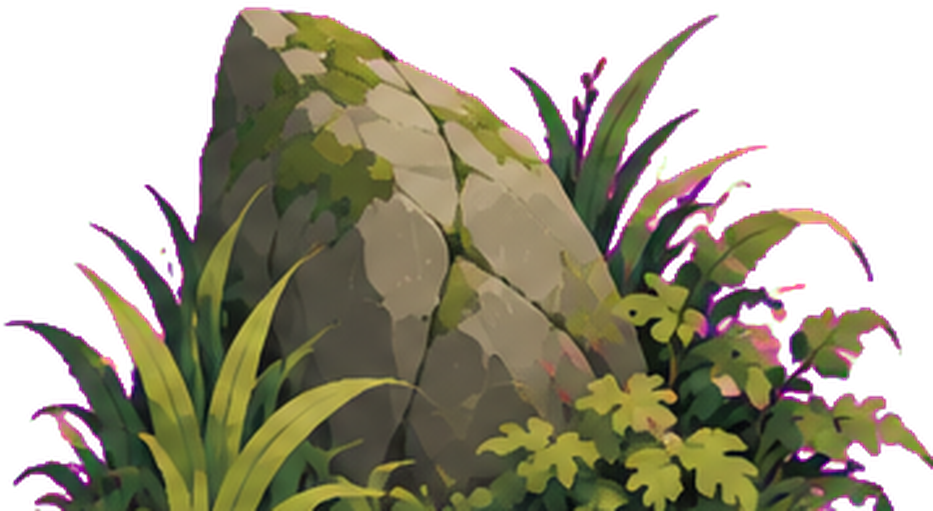
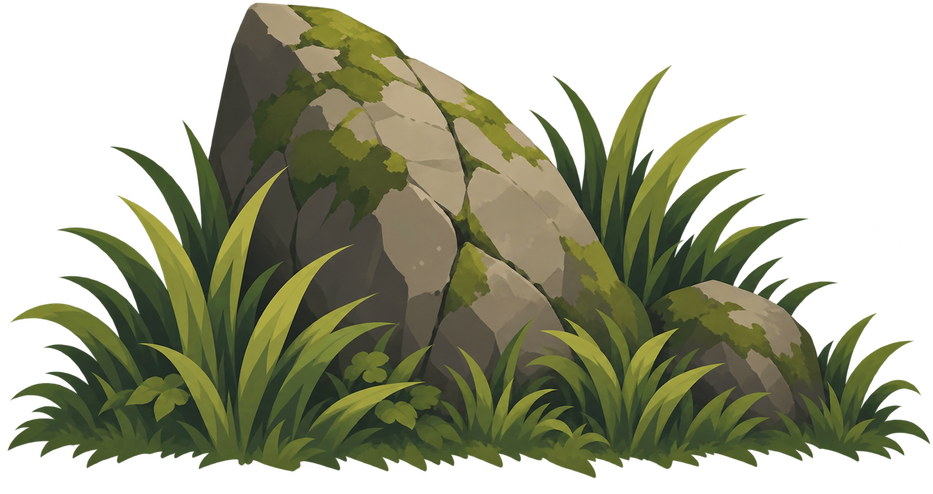
Add files via upload

diff --git a/sidescroll.js b/sidescroll.js
@@ -907,18 +907,18 @@
     tree06: [992, 1318],
     tree07: [992, 1318],
     tree08: [992, 1318],
-    ground01: [937, 603],
-    ground02: [924, 485],
-    ground03: [930, 602],
-    ground04: [931, 514],
-    ground05: [926, 531],
-    ground06: [922, 483],
-    ground07: [931, 418],
-    ground08: [928, 442],
-    ground09: [933, 511],
-    ground10: [940, 484],
-    ground11: [937, 361],
-    ground12: [934, 480],
+    ground01: [937, 493],
+    ground02: [923, 514],
+    ground03: [930, 514],
+    ground04: [914, 512],
+    ground05: [926, 514],
+    ground06: [916, 496],
+    ground07: [931, 529],
+    ground08: [928, 522],
+    ground09: [933, 494],
+    ground10: [940, 526],
+    ground11: [937, 515],
+    ground12: [934, 536],
   };
   Object.entries(assetDimensions).forEach(([key, size]) => {
     assetAspect[key] = size[0] / size[1];
@@ -926,7 +926,7 @@
       textures[key] = textures.treeAtlas;
     } else {
       textures[key] = createImageTexture(
-        `sidescroll-${key.replace('ground', 'ground-')}.png?v=0.2.79`,
+        `sidescroll-${key.replace('ground', 'ground-')}.png?v=0.2.86`,
         key,
         null,
         size[0] / size[1]
@@ -2287,7 +2287,7 @@
   }
 
   function inventoryThumbMarkup(itemDef) {
-    if (itemDef?.image) return `<span class="sidescroll-inventory-thumb"><img src="${itemDef.image}?v=0.2.85" alt=""></span>`;
+    if (itemDef?.image) return `<span class="sidescroll-inventory-thumb"><img src="${itemDef.image}?v=0.2.86" alt=""></span>`;
     if (itemDef?.asset === 'forest-key') return '<span class="sidescroll-inventory-thumb sidescroll-inventory-key-thumb" aria-hidden="true"><i></i></span>';
     return '<span class="sidescroll-inventory-thumb" aria-hidden="true">◇</span>';
   }
@@ -5069,7 +5069,7 @@
           ? `sidescroll-tree-${name.slice(-2)}.png`
           : (name.startsWith('ground') ? `sidescroll-ground-${name.slice(-2)}.png` : null));
         if (file) {
-          btn.innerHTML = `<span class="sidescroll-asset-thumb"><img src="${file}?v=0.2.85" alt="" loading="eager"></span><small>${info.label}</small>`;
+          btn.innerHTML = `<span class="sidescroll-asset-thumb"><img src="${file}?v=0.2.86" alt="" loading="eager"></span><small>${info.label}</small>`;
         } else if (name === 'crate') {
           btn.innerHTML = `<span class="sidescroll-crate-thumb" aria-hidden="true"><i></i></span><small>${info.label}</small>`;
         } else {

diff --git a/puzzle-groups.js b/puzzle-groups.js
@@ -3,17 +3,17 @@ window.SideScrollPuzzleConfig = {
   assetPacks: {
     "woodland-puzzle-atlas-v1": {
       assets: [
-        { name: "puzzle-log-a", url: "puzzle-log-a.png?v=0.2.85", aspect: 1.345895 },
-        { name: "puzzle-log-b", url: "puzzle-log-b.png?v=0.2.85", aspect: 1.106195 },
-        { name: "puzzle-log-c", url: "puzzle-log-c.png?v=0.2.85", aspect: 1.345895 },
-        { name: "puzzle-log-d", url: "puzzle-log-d.png?v=0.2.85", aspect: 1.106195 },
-        { name: "fallen-tree", url: "fallen-tree.png?v=0.2.85", aspect: 2.364393 },
+        { name: "puzzle-log-a", url: "puzzle-log-a.png?v=0.2.86", aspect: 1.345895 },
+        { name: "puzzle-log-b", url: "puzzle-log-b.png?v=0.2.86", aspect: 1.106195 },
+        { name: "puzzle-log-c", url: "puzzle-log-c.png?v=0.2.86", aspect: 1.345895 },
+        { name: "puzzle-log-d", url: "puzzle-log-d.png?v=0.2.86", aspect: 1.106195 },
+        { name: "fallen-tree", url: "fallen-tree.png?v=0.2.86", aspect: 2.364393 },
         { name: "tree-stump", url: "tree-stump.png?v=0.2.61", aspect: 2.4223 },
         { name: "broken-branch", url: "broken-branch.png?v=0.2.61", aspect: 2.7182 },
-        { name: "stone-wall", url: "stone-wall.png?v=0.2.85", aspect: 1.895735 },
-        { name: "stone-piece-a", url: "stone-piece-a.png?v=0.2.85", aspect: 1.094391 },
-        { name: "stone-piece-b", url: "stone-piece-b.png?v=0.2.85", aspect: 0.992500 },
-        { name: "stone-piece-c", url: "stone-piece-c.png?v=0.2.85", aspect: 1.062417 }
+        { name: "stone-wall", url: "stone-wall.png?v=0.2.86", aspect: 1.895735 },
+        { name: "stone-piece-a", url: "stone-piece-a.png?v=0.2.86", aspect: 1.094391 },
+        { name: "stone-piece-b", url: "stone-piece-b.png?v=0.2.86", aspect: 0.992500 },
+        { name: "stone-piece-c", url: "stone-piece-c.png?v=0.2.86", aspect: 1.062417 }
       ]
     }
   },

diff --git a/sw.js b/sw.js
@@ -1,4 +1,4 @@
-const CACHE = "sidescroll-v0.2.85";
+const CACHE = "sidescroll-v0.2.86";
 const APP_SHELL = [
   "./",
   "./index.html",
@@ -16,7 +16,6 @@ const APP_SHELL = [
   "./baked-game-design.js",
   "./puzzle-groups.js",
   "./walk-lab.js",
-  "./sidescroll-dressing-atlas.png",
   "./sidescroll-tree-atlas.png",
   "./sidescroll-tree-01.png",
   "./sidescroll-tree-02.png",

diff --git a/README.md b/README.md
@@ -1,12 +1,9 @@
-# SideScroll v0.2.85
+# SideScroll v0.2.86
 
-Fallen-tree silhouette/footprint correction.
+Ground-dressing alpha cleanup and replacement.
 
-- replaces the v0.2.84 fallen-tree art with the latest approved wide-silhouette version
-- preserves the image-generator native soft alpha
-- dilates RGB underneath transparent pixels only; the alpha channel is not regenerated or hardened
-- removes transparent bottom padding so the visible asset is genuinely floor-aligned
-- restores the proven pre-art-pass fallen-tree dimensions: 6.029 wide × 2.55 high
-- migrates existing authored starts, puzzle templates and runtime puzzle state back to that footprint
-- keeps the existing fallen-tree collision data unchanged
-- no log, wall, stone, environment, fog or gameplay-system changes
+- replaces all 12 `sidescroll-ground` textures with the newly approved grass-and-rock set
+- keeps the image-generator native soft alpha and removes the old magenta-derived edge contamination
+- dilates RGB only beneath fully transparent pixels, then tight-crops transparent padding for clean in-game edges
+- updates ground-asset aspect metadata to the processed texture dimensions and cache-busts the new textures
+- removes the obsolete missing dressing-atlas precache entry; no gameplay, puzzle, tree, character or placement-system changes
